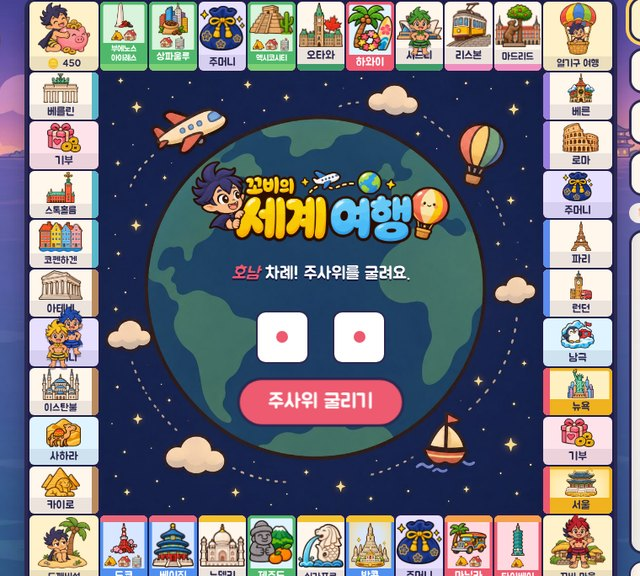
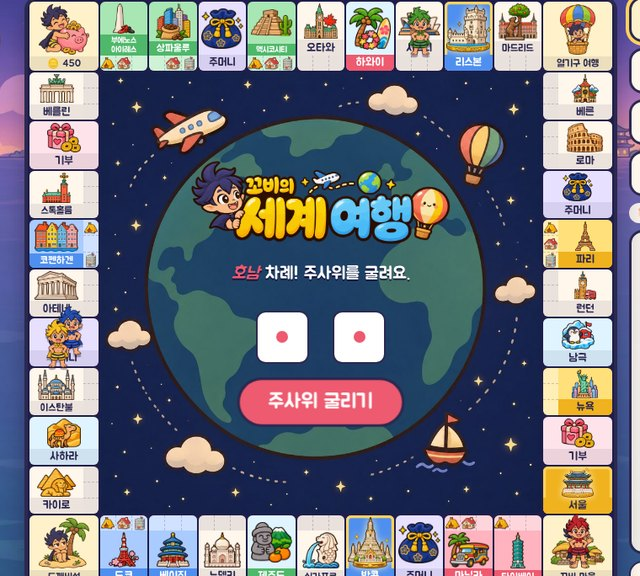
세계 여행: 도시 색 묶음과 2배 규칙 제거, 주인 색 배경, 안쪽 가장자리에 건물 3칸, 랜드마크 카드 강조
Claude-Session: https://claude.ai/code/session_01TJDp5XtHx3ft8qXxq66p2g

diff --git a/worldtour/index.html b/worldtour/index.html
@@ -106,31 +106,33 @@
   #board { position:relative; width:100%; height:100%; display:grid; grid-template-columns:1.45fr repeat(9, 1fr) 1.45fr; grid-template-rows:1.45fr repeat(9, 1fr) 1.45fr;
     background:#1f1d4a; border:4px solid var(--ink); border-radius:calc(var(--u) * 2.2); gap:calc(var(--u) * .28); padding:calc(var(--u) * .28); box-shadow:0 16px 30px rgba(20,10,50,.4); }
   .tile { position:relative; background:var(--cream); border-radius:calc(var(--u) * .8); overflow:hidden; display:flex; cursor:pointer; min-width:0; min-height:0; }
-  .tile .band { flex:none; background:var(--g, transparent); }
   .tile.sb { flex-direction:column; } .tile.st { flex-direction:column-reverse; }
   .tile.sl { flex-direction:row-reverse; } .tile.sr { flex-direction:row; }
-  .tile.sb .band, .tile.st .band { height:calc(var(--u) * 1.1); }
-  .tile.sl .band, .tile.sr .band { width:calc(var(--u) * 1.1); }
+  /* 건물 자리 3칸: 보드 안쪽 가장자리 */
+  .tile .bstrip { flex:none; display:flex; background:rgba(44,41,80,.1); }
+  .tile.sb .bstrip, .tile.st .bstrip { height:calc(var(--u) * 2.5); flex-direction:row; }
+  .tile.sl .bstrip, .tile.sr .bstrip { width:calc(var(--u) * 2.5); flex-direction:column; }
+  .tile .bstrip span { flex:1; min-width:0; min-height:0; position:relative; display:flex; align-items:center; justify-content:center; font-size:calc(var(--u) * 1.6); line-height:1; }
+  .tile.sb .bstrip span + span, .tile.st .bstrip span + span { border-left:calc(var(--u) * .12) dashed rgba(44,41,80,.22); }
+  .tile.sl .bstrip span + span, .tile.sr .bstrip span + span { border-top:calc(var(--u) * .12) dashed rgba(44,41,80,.22); }
+  .tile .bstrip img { position:absolute; inset:4%; width:92%; height:92%; object-fit:contain; filter:drop-shadow(0 calc(var(--u) * .15) 0 rgba(20,10,50,.3)); animation:bpop .35s ease-out; }
+  @keyframes bpop { from{ transform:scale(.2) translateY(-60%) } 70%{ transform:scale(1.2) } }
   .tile .col { flex:1; min-width:0; min-height:0; display:flex; flex-direction:column; }
-  .tile .body { flex:1; min-width:0; min-height:0; display:flex; flex-direction:column; align-items:center; justify-content:center; gap:calc(var(--u) * .15); padding:calc(var(--u) * .2); }
-  .tile.sl .body, .tile.sr .body { flex-direction:row; }
-  .tile .pic { flex:1; min-width:0; min-height:0; align-self:stretch; display:flex; align-items:center; justify-content:center; font-size:calc(var(--u) * 3); line-height:1; }
-  .tile .pic img { width:100%; height:100%; object-fit:contain; display:block; }
-  .tile .blds { flex:none; display:flex; gap:calc(var(--u) * .1); align-items:flex-end; justify-content:center; font-size:calc(var(--u) * 1.6); line-height:1; }
-  .tile.sl .blds, .tile.sr .blds { flex-direction:column; align-items:center; }
-  .tile .blds span { display:block; width:calc(var(--u) * 2.1); height:calc(var(--u) * 2.1); }
-  .tile.sl .blds span, .tile.sr .blds span { width:calc(var(--u) * 1.6); height:calc(var(--u) * 1.6); font-size:calc(var(--u) * 1.3); }
-  .tile .blds img { width:100%; height:100%; object-fit:contain; display:block; filter:drop-shadow(0 calc(var(--u) * .15) 0 rgba(20,10,50,.3)); }
+  .tile .pic { flex:1; min-width:0; min-height:0; position:relative; display:flex; align-items:center; justify-content:center; font-size:calc(var(--u) * 3); line-height:1; }
+  .tile .pic img { position:absolute; left:6%; top:5%; width:88%; height:92%; object-fit:contain; display:block; }
   .tile .nm { flex:none; text-align:center; line-height:1.12; color:var(--ink); white-space:nowrap; overflow:hidden; padding:calc(var(--u) * .3) 0 calc(var(--u) * .25); background:rgba(44,41,80,.09); font-size:calc(var(--u) * 1.7); }
   .tile .nm.l1, .tile .nm.l2, .tile .nm.l3 { font-size:calc(var(--u) * 1.9); }
   .tile .nm.l5 { font-size:calc(var(--u) * 1.38); letter-spacing:-.03em; }
   .tile.sl .nm.l5, .tile.sr .nm.l5, .tile.corner .nm.l5 { font-size:calc(var(--u) * 1.7); }
   .tile.sl .nm br, .tile.sr .nm br { display:none; }
-  .tile.own { background:var(--ot); box-shadow:inset 0 0 0 calc(var(--u) * .5) var(--oc); }
+  .tile.own { background:var(--ot); }
   .tile.own .nm { background:var(--oc); color:var(--otx, #fff); }
-  .tile.lm .pic { animation:lmglow 1.6s ease-in-out infinite alternate; }
-  .tile.lm { box-shadow:inset 0 0 0 calc(var(--u) * .5) var(--oc), inset 0 0 calc(var(--u) * 2.5) calc(var(--u) * .6) var(--sun); }
-  @keyframes lmglow { to { filter:drop-shadow(0 0 calc(var(--u) * .8) #ffd25e) } }
+  .tile.own .bstrip { background:rgba(255,255,255,.45); }
+  /* 랜드마크: 카드 전체가 주인 색, 금테와 반짝임 */
+  .tile.lm { background:var(--oc); box-shadow:inset 0 0 0 calc(var(--u) * .45) var(--sun); }
+  .tile.lm .pic img { left:3%; top:3%; width:94%; height:96%; filter:drop-shadow(0 0 calc(var(--u) * .6) #fff6c0); }
+  .tile.lm .shine { position:absolute; inset:0; pointer-events:none; background:linear-gradient(115deg, transparent 35%, rgba(255,255,255,.75) 50%, transparent 65%); background-size:300% 100%; animation:shine 2.6s linear infinite; }
+  @keyframes shine { from{ background-position:150% 0 } to{ background-position:-50% 0 } }
   .tile.corner { background:#fff1c9; }
   .tile.corner .pic { font-size:calc(var(--u) * 5); }
   .tile.t-card { background:#e8e0ff; } .tile.t-give { background:#ffe3ea; } .tile.t-mark { background:#e0f4ff; }
@@ -321,7 +323,6 @@ const $ = id => document.getElementById(id);
 function store(k, v) { try { if (v === undefined) return localStorage.getItem(k); localStorage.setItem(k, v); } catch (e) { return null; } }
 
 // ---------- 보드 자료 ----------
-const GROUPS = ['#f6a04d', '#f2c230', '#e9697b', '#b98a5e', '#58b8c9', '#7ccf74', '#3f9c6a', '#ef8fc0', '#9a7fe0', '#5b8def', '#ee5a6f'];
 const C = (name, price, g, key, short) => ({ type:'city', name, price, g, key, short: short || name });
 const TILES = [
   { type:'start', name:'꼬비 마을', key:'start', emo:'🏡' },
@@ -359,8 +360,8 @@ const B = [{ n:'텐트', emo:'⛺', key:'bld-tent', cost:.5, toll:.4, fix:30 }, 
 const LAND_TOLL = .1, LM_COST = 2, LM_TOLL = 6, TAKE = 2, MARK_TOLL = [0, 80, 200, 400, 700];
 const r10 = v => Math.round(v / 10) * 10;
 const COLORS = [
-  { key:'red', name:'빨강', c:'#ee5a6f', t:'#ffd9df' }, { key:'blue', name:'파랑', c:'#4f8ff0', t:'#d8e7ff' },
-  { key:'green', name:'초록', c:'#4fb86a', t:'#d9f3dc' }, { key:'yellow', name:'노랑', c:'#f0b21e', t:'#fff0c2' }
+  { key:'red', name:'빨강', c:'#ee5a6f', t:'#ffb3bf' }, { key:'blue', name:'파랑', c:'#4f8ff0', t:'#a9cbff' },
+  { key:'green', name:'초록', c:'#4fb86a', t:'#a8e6b4' }, { key:'yellow', name:'노랑', c:'#f0b21e', t:'#ffe07a' }
 ];
 const CARDS = [
   { t:'여행 사진 대회에서 1등! 상금 200냥을 받아요.', emo:'📸', f:'gain', v:200 },
@@ -489,7 +490,7 @@ const HOW = '<h2>놀이 방법</h2>' +
   '<p style="text-align:left">🎲 주사위 2개를 굴려 나온 만큼 가요. <b>같은 숫자</b>가 나오면 한 번 더! (세 번 연속이면 도깨비섬)<br>' +
   '🏡 <b>꼬비 마을</b>을 지날 때마다 용돈 ' + SALARY + '냥.<br>' +
   '🏙 주인 없는 도시에 서면 땅을 살 수 있어요. <b>내 땅에 다시 도착하면</b> 건물을 지어요. <b>텐트, 게스트하우스, 호텔</b>은 함께 설 수 있고 통행료가 더해져요.<br>' +
-  '💸 남의 도시에 서면 통행료를 내요. <b>같은 색 도시를 다 모으면 통행료 2배!</b><br>' +
+  '💸 남의 도시에 서면 통행료를 내요. 건물이 많을수록 비싸요.<br>' +
   '🤝 통행료를 낸 뒤, 그 도시에 들어간 값의 <b>2배</b>를 주인에게 주면 <b>인수</b>할 수 있어요.<br>' +
   '🏰 건물 3개를 다 지은 내 도시에 또 도착하면 <b>랜드마크</b>를 세워요. 랜드마크 도시는 아무도 인수할 수 없어요!<br>' +
   '⭐ 제주도, 사하라, 하와이, 남극은 건물을 못 짓지만 많이 가질수록 통행료가 올라요.<br>' +
@@ -506,14 +507,13 @@ const sp = ms => fast ? ms * .45 : ms;
 function wait(ms) { const my = gid; return new Promise((res, rej) => setTimeout(() => my === gid ? res() : rej(ABORT), sp(ms))); }
 const alive = () => G.players.filter(p => p.alive);
 const owned = p => TILES.map((t, i) => i).filter(i => G.owner[i] === p.id);
-const hasSet = i => { const t = TILES[i], o = G.owner[i]; return t.type === 'city' && o != null && TILES.every((x, j) => x.type !== 'city' || x.g !== t.g || G.owner[j] === o); };
 function toll(i, lv) {
   const t = TILES[i], o = G.owner[i];
   if (t.type === 'mark') { const n = o == null ? 1 : TILES.filter((x, j) => x.type === 'mark' && G.owner[j] === o).length; return MARK_TOLL[n]; }
   return tollOf(i, G.bld[i], G.lm[i]);
 }
 const bCost = (i, k) => r10(TILES[i].price * B[k].cost), lmCost = i => r10(TILES[i].price * LM_COST);
-const tollOf = (i, bld, lm) => (lm ? r10(TILES[i].price * LM_TOLL) : r10(TILES[i].price * LAND_TOLL) + [0, 1, 2].reduce((s, k) => s + (bld >> k & 1 ? r10(TILES[i].price * B[k].toll) : 0), 0)) * (hasSet(i) ? 2 : 1);
+const tollOf = (i, bld, lm) => (lm ? r10(TILES[i].price * LM_TOLL) : r10(TILES[i].price * LAND_TOLL) + [0, 1, 2].reduce((s, k) => s + (bld >> k & 1 ? r10(TILES[i].price * B[k].toll) : 0), 0));
 const invested = i => TILES[i].price + (TILES[i].type === 'city' ? bList(i).reduce((s, k) => s + bCost(i, k), 0) + (G.lm[i] ? lmCost(i) : 0) : 0);
 const sellValue = i => Math.round(invested(i) / 2);
 const assets = p => p.money + owned(p).reduce((s, i) => s + invested(i), 0);
@@ -562,7 +562,6 @@ function buildBoard() {
   TILES.forEach((t, i) => {
     const d = document.createElement('div'), [c, r] = tileCell(i), sd = tileSide(i);
     d.className = 'tile ' + sd + ' t-' + t.type; d.dataset.i = i; d.style.gridColumn = c; d.style.gridRow = r;
-    if (t.type === 'city') d.style.setProperty('--g', GROUPS[t.g]);
     $('board').appendChild(d); tileEls.push(d);
   });
 }
@@ -573,12 +572,11 @@ function nameHtml(t) {
 }
 function drawTiles() {
   TILES.forEach((t, i) => {
-    const d = tileEls[i], o = G.owner[i], city = t.type === 'city', lmk = city && G.lm[i], bl = city && !lmk ? bList(i) : [];
-    d.classList.toggle('own', o != null); d.classList.toggle('lm', !!lmk); d.classList.toggle('hasb', bl.length > 0);
+    const d = tileEls[i], o = G.owner[i], city = t.type === 'city', lmk = city && G.lm[i];
+    d.classList.toggle('own', o != null); d.classList.toggle('lm', !!lmk);
     if (o != null) { const c = COLORS[G.players[o].ci]; d.style.setProperty('--oc', c.c); d.style.setProperty('--ot', c.t); d.style.setProperty('--otx', c.key === 'yellow' ? '#2c2950' : '#fff'); }
-    d.innerHTML = (city ? '<div class="band"></div>' : '') + '<div class="col"><div class="body"><div class="pic">' + (lmk ? lmPic(t) : tilePic(t)) + '</div>' +
-      (bl.length ? '<div class="blds">' + bl.map(k => '<span>' + bIcon(k) + '</span>').join('') + '</div>' : '') + '</div>' +
-      (t.type === 'fund' ? '<div class="nm l4">🪙 ' + nf(G.pot) + '</div>' : nameHtml(t)) + '</div>';
+    d.innerHTML = (city && !lmk ? '<div class="bstrip">' + [0, 1, 2].map(k => '<span class="' + (G.bld[i] >> k & 1 ? 'on' : '') + '">' + (G.bld[i] >> k & 1 ? bIcon(k) : '') + '</span>').join('') + '</div>' : '') +
+      '<div class="col"><div class="pic">' + (lmk ? lmPic(t) : tilePic(t)) + '</div>' + (t.type === 'fund' ? '<div class="nm l4">🪙 ' + nf(G.pot) + '</div>' : nameHtml(t)) + '</div>' + (lmk ? '<i class="shine"></i>' : '');
   });
 }
 let boardSize = 600, pieceEls = [];
@@ -653,14 +651,14 @@ async function notice(p, head, ms) { // 사람에게는 창, AI 차례에는 잠
 // 칸 정보
 function tileInfo(i) {
   const t = TILES[i], o = G.owner[i];
-  let h = '<div class="big">' + (t.type === 'city' && G.lm[i] ? lmPic(t) : tilePic(t)) + '</div><h2>' + (t.type === 'city' ? '<span class="gband" style="background:' + GROUPS[t.g] + '"></span>' : '') + t.name + '</h2>';
+  let h = '<div class="big">' + (t.type === 'city' && G.lm[i] ? lmPic(t) : tilePic(t)) + '</div><h2>' + t.name + '</h2>';
   if (t.type === 'city') {
-    h += '<p>' + (o != null ? pn(G.players[o]) + '의 도시' : '주인 없는 도시') + (hasSet(i) ? ' · <b>같은 색 완성! 통행료 2배</b>' : '') + '</p><table class="toll">' +
+    h += '<p>' + (o != null ? pn(G.players[o]) + '의 도시' : '주인 없는 도시') + '</p><table class="toll">' +
       '<tr class="' + (o != null ? 'now' : '') + '"><td>🚩 땅</td><td>땅값 ' + nf(t.price) + '</td><td>통행료 ' + nf(r10(t.price * LAND_TOLL)) + '</td></tr>' +
       [0, 1, 2].map(k => '<tr class="' + (G.bld[i] >> k & 1 ? 'now' : '') + '"><td>' + B[k].emo + ' ' + B[k].n + '</td><td>짓는 값 ' + nf(bCost(i, k)) + '</td><td>통행료 +' + nf(r10(t.price * B[k].toll)) + '</td></tr>').join('') +
       '<tr class="' + (G.lm[i] ? 'now' : '') + '"><td>🏰 랜드마크</td><td>짓는 값 ' + nf(lmCost(i)) + '</td><td>통행료 ' + nf(r10(t.price * LM_TOLL)) + '</td></tr></table>' +
       '<p style="font-size:14px;color:var(--ink2)">건물 3개는 함께 서고 통행료가 더해져요. 3개를 다 지은 뒤 다시 도착하면 랜드마크!</p>' + (o != null ? '<p>지금 통행료 <b>' + nf(toll(i)) + '냥</b></p>' : '') +
-      (o != null ? '<p style="font-size:15px">' + (G.lm[i] ? '🏰 랜드마크가 있어 아무도 인수할 수 없어요.' : '인수하는 값 <b>' + nf(takeCost(i)) + '냥</b>') + '</p>' : '') + '<p style="font-size:14px;color:var(--ink2)">같은 색: ' + TILES.filter(x => x.type === 'city' && x.g === t.g).map(x => x.name).join(', ') + '</p>';
+      (o != null ? '<p style="font-size:15px">' + (G.lm[i] ? '🏰 랜드마크가 있어 아무도 인수할 수 없어요.' : '인수하는 값 <b>' + nf(takeCost(i)) + '냥</b>') + '</p>' : '');
   } else if (t.type === 'mark') {
     h += '<p>' + (o != null ? pn(G.players[o]) + '의 명소' : '주인 없는 명소') + ' · 값 ' + nf(t.price) + '냥</p><p>건물은 못 지어요. 명소를 많이 가질수록 통행료가 올라요.</p><table class="toll">' + [1, 2, 3, 4].map(n => '<tr><td>명소 ' + n + '곳</td><td>통행료 ' + nf(MARK_TOLL[n]) + '</td></tr>').join('') + '</table>';
   } else h += '<p>' + ({ start:'지나갈 때마다 용돈 ' + SALARY + '냥을 받아요.', card:'도깨비 주머니에서 행운 카드를 한 장 뽑아요.', give:GIVE + '냥을 꼬비 저금통에 넣어요.',
@@ -779,9 +777,9 @@ async function land(p) {
       if (p.money < t.price) { say(pn(p) + ' ' + t.name + ' 도착. 살 돈이 모자라요.'); await wait(900); return; }
       let yes;
       if (p.ai) { say(pn(p) + ' ' + t.name + ' 도착. 살까 말까…', true); await wait(900); yes = p.money - t.price >= Math.min(aiReserve(p), 80 + t.price / 4); }
-      else yes = await ask('<div class="big">' + tilePic(t) + '</div><h2>' + (t.type === 'city' ? '<span class="gband" style="background:' + GROUPS[t.g] + '"></span>' : '') + t.name + '</h2><p>주인이 없어요. 살까요? (가진 돈 ' + nf(p.money) + '냥)' + (t.type === 'city' ? '<br><small style="color:var(--ink2)">건물은 다음에 내 땅에 다시 도착하면 지을 수 있어요.</small>' : '') + '</p>',
+      else yes = await ask('<div class="big">' + tilePic(t) + '</div><h2>' + t.name + '</h2><p>주인이 없어요. 살까요? (가진 돈 ' + nf(p.money) + '냥)' + (t.type === 'city' ? '<br><small style="color:var(--ink2)">건물은 다음에 내 땅에 다시 도착하면 지을 수 있어요.</small>' : '') + '</p>',
         [{ label:'🚩 ' + (t.type === 'mark' ? '명소 사기' : '땅 사기'), right:nf(t.price) + '냥', cls:'btn-info', v:true }, { label:'안 살래요', v:false }]);
-      if (yes) { money(p, -t.price); G.owner[i] = p.id; beep('buy'); say(pn(p) + ' <b>' + t.name + '</b>을(를) 샀어요!'); refresh(); if (hasSet(i)) { toast('같은 색 도시 완성! 통행료 2배'); } await wait(700); }
+      if (yes) { money(p, -t.price); G.owner[i] = p.id; beep('buy'); say(pn(p) + ' <b>' + t.name + '</b>을(를) 샀어요!'); refresh(); await wait(700); }
       else { say(pn(p) + ' ' + t.name + '을(를) 그냥 지나가요.'); await wait(500); }
     } else if (o === p.id) {
       if (t.type === 'mark' || G.lm[i]) { say(pn(p) + ' 내 ' + (t.type === 'mark' ? '명소' : '도시') + ' ' + t.name + '에서 쉬어 가요.'); await wait(800); return; }
@@ -813,11 +811,11 @@ async function land(p) {
       if (p.alive && t.type === 'city' && G.owner[i] === o && !G.lm[i]) {
         const c = p.half ? Math.round(takeCost(i) / 2) : takeCost(i); let yes = false;
         if (p.money >= c) {
-          if (p.ai) { const mine = TILES.some((x, j) => x.type === 'city' && x.g === t.g && G.owner[j] === p.id); yes = p.money - c >= 300 && (mine || G.bld[i] || hasSet(i)); if (yes) await wait(600); }
+          if (p.ai) { yes = p.money - c >= 300 && (G.bld[i] > 0 || t.price >= 400); if (yes) await wait(600); }
           else yes = await ask('<div class="big">' + tilePic(t) + '</div><h2>' + t.name + ' 인수</h2><p>' + pn(own) + '의 도시예요. ' + (G.bld[i] ? '건물까지 통째로 ' : '') + '인수할까요?' + (p.half ? ' <b>반값 인수권 사용!</b>' : '') + '<br>인수하면 ' + pn(own) + '에게 돈을 주고 내 도시가 돼요. (가진 돈 ' + nf(p.money) + '냥)</p>',
             [{ label:'🤝 인수하기', right:nf(c) + '냥', cls:'btn-mint', v:true }, { label:'안 할래요', v:false }]);
         }
-        if (yes) { if (p.half) p.half--; money(p, -c); money(own, c); G.owner[i] = p.id; beep('buy'); say(pn(p) + ' ' + pn(own) + '의 <b>' + t.name + '</b>을(를) ' + nf(c) + '냥에 인수했어요!'); refresh(); if (hasSet(i)) toast('같은 색 도시 완성! 통행료 2배'); await wait(800); }
+        if (yes) { if (p.half) p.half--; money(p, -c); money(own, c); G.owner[i] = p.id; beep('buy'); say(pn(p) + ' ' + pn(own) + '의 <b>' + t.name + '</b>을(를) ' + nf(c) + '냥에 인수했어요!'); refresh(); await wait(800); }
       }
     }
   } else if (t.type === 'card') await drawCard(p);
@@ -868,7 +866,7 @@ function aiBalloon(p) {
   TILES.forEach((t, i) => {
     if (i === BALLOON) return; let s = 0;
     if (t.type === 'city' && G.owner[i] === p.id && !G.lm[i] && (G.bld[i] === 7 ? p.money - lmCost(i) > 300 : aiBuild(p, i).length > 0)) s = 50 + t.price / 10;
-    else if ((t.type === 'city' || t.type === 'mark') && G.owner[i] == null && p.money - t.price > 300) s = 30 + t.price / 12 + (t.type === 'city' && TILES.some((x, j) => x.type === 'city' && x.g === t.g && G.owner[j] === p.id) ? 40 : 0);
+    else if ((t.type === 'city' || t.type === 'mark') && G.owner[i] == null && p.money - t.price > 300) s = 30 + t.price / 12;
     else if (i === FUND && G.pot >= 300) s = 20 + G.pot / 10;
     if (s > score) { score = s; best = i; }
   });
